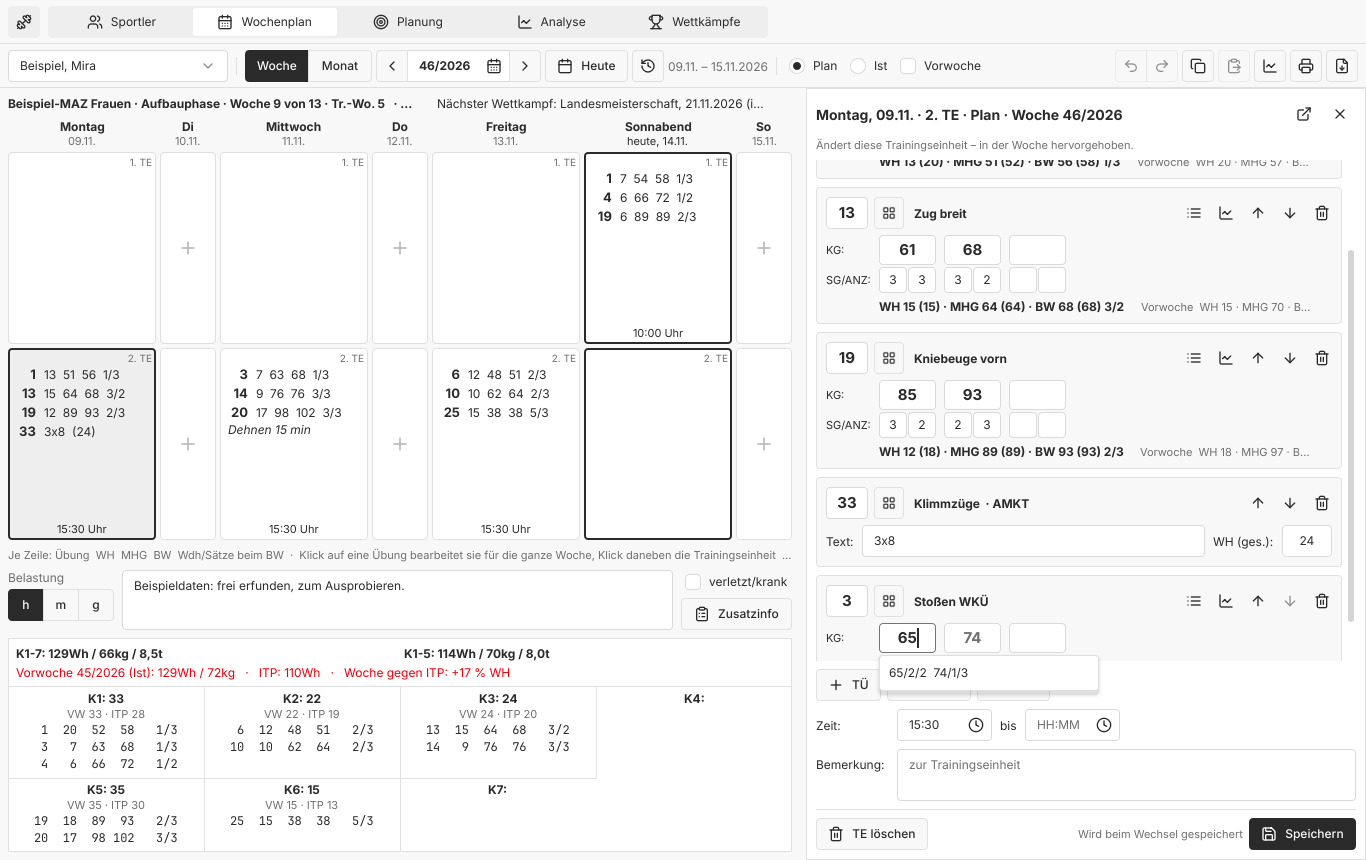
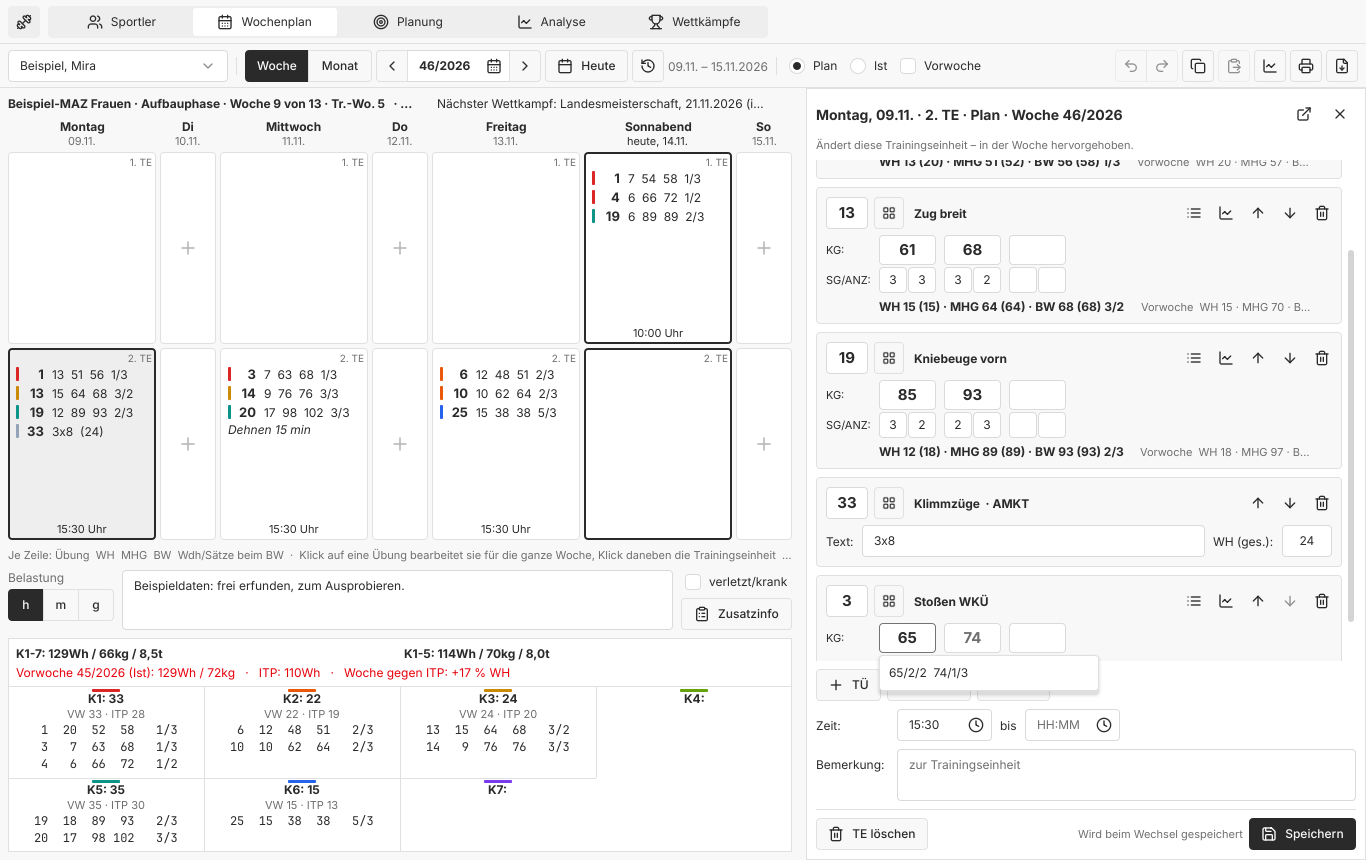
Colour the lines of week and month by complex
IDA marks the lines of a week by their complex. The week's exercise
lines now carry a short stripe in the complex's colour: K1 red, K2
orange, K3 amber, K4 green, K5 teal, K6 blue, K7 violet, the general
strength exercises grey. The K1 to K7 boxes below the week carry the
same colours as their legend. In the month each session gets a thin
bar of its reps split by complex, paler while only planned.

The colours are mid tones that read on the light and the dark scheme,
and live in one place, Theme.groupColor().

diff --git a/qml/MonthView.qml b/qml/MonthView.qml
@@ -249,9 +249,15 @@ Item {
                                 }
                                 Repeater {
                                     model: dayCell.modelData.sessions
-                                    Label {
+                                    ColumnLayout {
+                                        id: sessionItem
                                         required property var modelData
                                         objectName: "session" + modelData.number
+                                        spacing: 1
+                                        readonly property string text: sessionLabel.text
+                                    Label {
+                                        id: sessionLabel
+                                        readonly property var modelData: sessionItem.modelData
                                         font.pixelSize: 11
                                         // ● with Ist after a Plan, ◆ Ist without one, ○ planned,
                                         // "offen" planned and past without Ist
@@ -260,6 +266,26 @@ Item {
                                               + (modelData.wh > 0 ? modelData.wh + " Wh" : modelData.number + ". TE")
                                         color: modelData.state === "open" ? view.s.danger_default
                                                : modelData.state === "planned" ? view.s.text_muted : view.s.text_default
+                                    }
+                                    // Its reps by complex, in the complexes' colours
+                                    Row {
+                                        objectName: "groupBar"
+                                        readonly property int total: (sessionItem.modelData.groups || []).reduce((a, b) => a + b, 0)
+                                        visible: total > 0
+                                        Layout.preferredWidth: 60
+                                        height: 3
+                                        opacity: sessionItem.modelData.state === "planned" || sessionItem.modelData.state === "open" ? 0.45 : 1
+                                        Repeater {
+                                            model: sessionItem.modelData.groups || []
+                                            Rectangle {
+                                                required property int modelData
+                                                required property int index
+                                                width: parent.total > 0 ? 60 * modelData / parent.total : 0
+                                                height: 3
+                                                color: Theme.groupColor(index + 1)
+                                            }
+                                        }
+                                    }
                                     }
                                 }
                                 Repeater {

diff --git a/tests/tst_groupcolors.qml b/tests/tst_groupcolors.qml
@@ -1,0 +1,69 @@
+import QtQuick
+import QtTest
+import Trainingsplaner
+
+// A colour per complex on the lines of the week, the K boxes below as
+// their legend, and a bar by complex for each session of the month
+Item {
+    width: 1600
+    height: 900
+
+    WeekPage {
+        id: page
+        anchors.fill: parent
+    }
+
+    TestCase {
+        name: "GroupColors"
+        when: windowShown
+
+        property string athlete
+        readonly property string monday: "2036-03-03"
+
+        function initTestCase() {
+            athlete = Store.saveAthlete({ lastName: "Farbe", firstName: "Fiona", sex: 1 })
+            Store.sessionsPerDay = 2
+            Store.saveSession(athlete, monday, "I", { day: 1, number: 1, entries: [
+                { kind: 0, exercise: 1, steps: [{ kg: 50, reps: 3, sets: 2 }] },     // K1: 6
+                { kind: 0, exercise: 19, steps: [{ kg: 80, reps: 3, sets: 3 }] },    // K5: 9
+                { kind: 1, exercise: 33, text: "3x8", totalReps: 24 },               // AMKT
+                { kind: 2, text: "Dehnen" } ] })
+            page.athleteId = athlete
+            page.variant = "I"
+            page.monday = monday
+        }
+
+        function cleanupTestCase() {
+            Store.removeAthlete(athlete)
+        }
+
+        function test_palette() {
+            compare(Theme.groupColor(1), "#dc2626")
+            compare(Theme.groupColor(7), "#7c3aed")
+            compare(Theme.groupColor(8), Theme.groupColor(9))
+            compare(Theme.groupColor(0), "#00000000")
+        }
+
+        function test_week() {
+            const cell = findChild(page, "cell1_1")
+            tryVerify(() => cell && cell.filled)
+            const stripes = []
+            for (let i = 0; i < 4; ++i) {
+                const line = findChild(cell, "line" + i)
+                const stripe = findChild(line, "groupStripe")
+                stripes.push(stripe.visible ? String(stripe.color) : "")
+            }
+            // K1, K5, AMKT grey; the free text has none
+            compare(stripes, ["#dc2626", "#0d9488", "#94a3b8", ""])
+            // The K boxes below in the same colours
+            compare(String(findChild(page, "groupColor1").color), "#dc2626")
+            compare(String(findChild(page, "groupColor5").color), "#0d9488")
+        }
+
+        function test_month() {
+            const month = Store.month(athlete, monday, false)
+            const day = month.weeks.find(w => w.monday === monday).days[0]
+            compare(day.sessions[0].groups, [6, 0, 0, 0, 9, 0, 0])
+        }
+    }
+}

diff --git a/qml/SessionCell.qml b/qml/SessionCell.qml
@@ -208,7 +208,8 @@ Rectangle {
                     const m = modelData
                     if (m.kind === 2)
                         return ""
-                    let t = m.exercise + "  " + m.name
+                    let t = (m.group >= 1 && m.group <= 7 ? "K" + m.group + " · " : m.group >= 8 ? "AMKT · " : "")
+                            + m.exercise + "  " + m.name
                     if (m.kind === 0 && m.stats && !m.stats.empty)
                         t += "\nWH " + m.stats.wh + " · MHG " + m.stats.mhg + " · BW " + m.stats.bw
                              + (m.stats.repsSets ? " (" + m.stats.repsSets + ")" : "")
@@ -224,6 +225,16 @@ Rectangle {
                 anchors.right: parent.right
                 anchors.verticalCenter: parent.verticalCenter
                 spacing: 8
+                // The complex's colour (K1..K7, grey for 8 and 9)
+                Rectangle {
+                    objectName: "groupStripe"
+                    visible: line.modelData.group > 0
+                    implicitWidth: 3
+                    implicitHeight: 14
+                    radius: 1.5
+                    color: Theme.groupColor(line.modelData.group || 0)
+                    Layout.rightMargin: -5
+                }
                 Label {
                     visible: line.modelData.kind !== 2
                     Layout.preferredWidth: 20

diff --git a/qml/HelpDialog.qml b/qml/HelpDialog.qml
@@ -136,7 +136,8 @@ AppDialog {
                           + "wechseln zu einer anderen, „Speichern unter…“ legt eine Kopie an und arbeitet darin weiter. "
                           + "Beim Start öffnet das Programm das zuletzt benutzte Projekt.<br><br>"
                           + "<b>Sportler:</b> unter „Sportler“ anlegen und bearbeiten; Kader, Verein usw. mit Zeiträumen (Stift-Symbol daneben).<br><br>"
-                          + "<b>Wochenplan:</b> Sportler und Woche wählen. Ein Klick in eine Trainingseinheit öffnet sie "
+                          + "<b>Wochenplan:</b> Sportler und Woche wählen. Der farbige Strich vor einer Übung zeigt ihren "
+                          + "Komplex (K1 rot bis K7 violett, allgemeine Kraft grau). Ein Klick in eine Trainingseinheit öffnet sie "
                           + "neben der Woche; Änderungen werden beim Wechsel zu einer anderen Einheit oder beim Schließen "
                           + "gespeichert und lassen sich rückgängig machen. Mit dem Pfeil-Symbol kommt sie in ein eigenes "
                           + "Fenster. Ein Klick auf eine Übung öffnet „Erfassung TÜ“ im selben Bereich: "

diff --git a/qml/WeekPage.qml b/qml/WeekPage.qml
@@ -1217,6 +1217,17 @@ Page {
                                         height: 1
                                         color: Styles.TokenInterface.semantics.stroke_subtle
                                     }
+                                    // The complex's colour, as on the lines above:
+                                    // the legend of the stripes
+                                    Rectangle {
+                                        objectName: "groupColor" + (index + 1)
+                                        anchors.horizontalCenter: parent.horizontalCenter
+                                        y: 2
+                                        width: 28
+                                        height: 3
+                                        radius: 1.5
+                                        color: Theme.groupColor(index + 1)
+                                    }
 
                                     ColumnLayout {
                                         id: groupColumn

diff --git a/qml/Theme.qml b/qml/Theme.qml
@@ -25,4 +25,14 @@ QtObject {
     readonly property int rowInsetX: 4
     readonly property int rowInsetY: 2
     readonly property int listMargin: rowInsetX - rowInsetY
+
+    // A colour per complex for the lines of week and month, as IDA marks
+    // them: K1 the competition lifts red, K2 orange, K3 the pulls amber,
+    // K4 green, K5 the squats teal, K6 blue, K7 violet, the general
+    // strength exercises (8, 9) grey. Mid tones, to read in light and dark.
+    readonly property var groupColors: ["#dc2626", "#ea580c", "#ca8a04", "#65a30d", "#0d9488", "#2563eb",
+                                        "#7c3aed", "#94a3b8", "#94a3b8"]
+    function groupColor(group: int): color {
+        return group >= 1 && group <= 9 ? groupColors[group - 1] : "transparent"
+    }
 }

diff --git a/src/store.cpp b/src/store.cpp
@@ -110,6 +110,8 @@ QVariantMap entryToMap(const Entry &e)
         {QStringLiteral("kind"), int(e.kind)},
         {QStringLiteral("exercise"), e.exercise},
         {QStringLiteral("name"), Catalog::name(e.exercise)},
+        // The complex (1..7), 8 and 9 the general strength exercises, 0 none
+        {QStringLiteral("group"), Catalog::find(e.exercise) ? Catalog::find(e.exercise)->group : 0},
         {QStringLiteral("steps"), stepsToList(e.steps)},
         {QStringLiteral("text"), e.text},
         {QStringLiteral("totalReps"), e.totalReps},
@@ -1897,8 +1899,20 @@ QVariantMap Store::month(const QString &athleteId, const QString &firstOfMonth, 
                 else
                     state = date < today ? QStringLiteral("open") : QStringLiteral("planned");
                 const int wh = whOf(a ? a : p);
+                // Its reps per complex K1..K7, for the coloured bar
+                QVariantList groups;
+                {
+                    QList<int> perGroup(Catalog::summaryGroups, 0);
+                    for (const Entry &e : (a ? a : p)->entries) {
+                        const Exercise *ex = e.kind == Entry::Weights ? Catalog::find(e.exercise) : nullptr;
+                        if (ex && ex->group >= 1 && ex->group <= Catalog::summaryGroups)
+                            perGroup[ex->group - 1] += e.stats().wh;
+                    }
+                    for (int g : std::as_const(perGroup))
+                        groups.append(g);
+                }
                 sessions.append(QVariantMap{{QStringLiteral("number"), n}, {QStringLiteral("state"), state},
-                                            {QStringLiteral("wh"), wh}});
+                                            {QStringLiteral("wh"), wh}, {QStringLiteral("groups"), groups}});
                 const QString mark = state == QLatin1String("done") ? QStringLiteral("●")
                                      : state == QLatin1String("free") ? QStringLiteral("◆")
                                      : state == QLatin1String("open") ? QStringLiteral("offen") : QStringLiteral("○");

diff --git a/docs/HANDBUCH.md b/docs/HANDBUCH.md
@@ -162,6 +162,14 @@ In jeder Trainingseinheit (TE) steht je Übung eine Zeile:
 Text-Übungen wie `33 3x8 (24)` (Klimmzüge, 3×8, zusammen 24 WH) und freie
 Notizen wie „Dehnen 15 min“ stehen ebenso in der Einheit.
 
+Der farbige Strich vor der Übung zeigt ihren **Komplex**: K1 rot, K2
+orange, K3 gelb, K4 grün, K5 türkis, K6 blau, K7 violett, die
+allgemeinen Kraftübungen (Gruppen 8 und 9) grau. Die Kästen K1 bis K7
+unter der Woche tragen oben dieselben Farben.
+
+> **Beispiel:** Montag, 2. TE: Reißen (rot), Zug breit (gelb),
+> Kniebeuge vorn (türkis) und Klimmzüge (grau).
+
 ### Eine Trainingseinheit bearbeiten
 
 ![Trainingseinheit](handbuch/bilder/05-trainingseinheit.png)
@@ -260,7 +268,8 @@ K1-7 und K1-5 auch die Wiederholungen der allgemeinen Kraftübungen
   der WK-Lage aus dem ITP (LG, WK, HWK), **Tr.-Wo.** (die Wochen bis zum
   Hauptwettkampf) und den Wiederholungen **Plan / Ist** (`129 / 126`);
 - in den Tagen die Einheiten: ● Ist nach Plan, ◆ Ist ohne Plan, ○ geplant,
-  ◌ offen (geplant, aber ohne Ist, in Rot);
+  ◌ offen (geplant, aber ohne Ist, in Rot); darunter ein schmaler Balken
+  mit den Wiederholungen der Einheit nach Komplexen, in deren Farben;
 - rechts die **Termine**, also die kommenden Wettkämpfe.
 
 Ein Klick auf eine Kalenderwoche öffnet diese Woche. **Alle Sportler**

diff --git a/docs/RESEARCH-IDA-RTK.md b/docs/RESEARCH-IDA-RTK.md
@@ -133,7 +133,7 @@ M days, L a week or more.
 | 13 | Print: tonnage per exercise line, AMKT WH in the header, creation date (done, November 2026: a "t" column as an option of Ausdruck, AMKT WH beside K1-7 and K1-5 in the week's figures, "erstellt am" at the top) | IDA p.17 | S |
 | 14 | "Letzter Eintrag": jump to the last week with data (done, November 2026: a button beside "Heute" and Ctrl+End, to the latest week with sessions of the variant shown; the coach's wish came with it: the week's load, "Belastung: hoch/mittel/gesenkt", under the title of the printout) | IDA p.14 | S |
 | 15 | A note per exercise line, not only per session | IDA p.15 | S–M |
-| 16 | Colour per K group on the lines of week and month | IDA p.15–16 | S |
+| 16 | Colour per K group on the lines of week and month (done, November 2026: a stripe before each line of the week, the K boxes below as the legend, and in the month a bar per session split by complex) | IDA p.15–16 | S |
 | 17 | Further calendar entries: Lehrgang, Diagnostik/Test, with a type filter | IDA p.14 | M |
 
 ### Analysis
